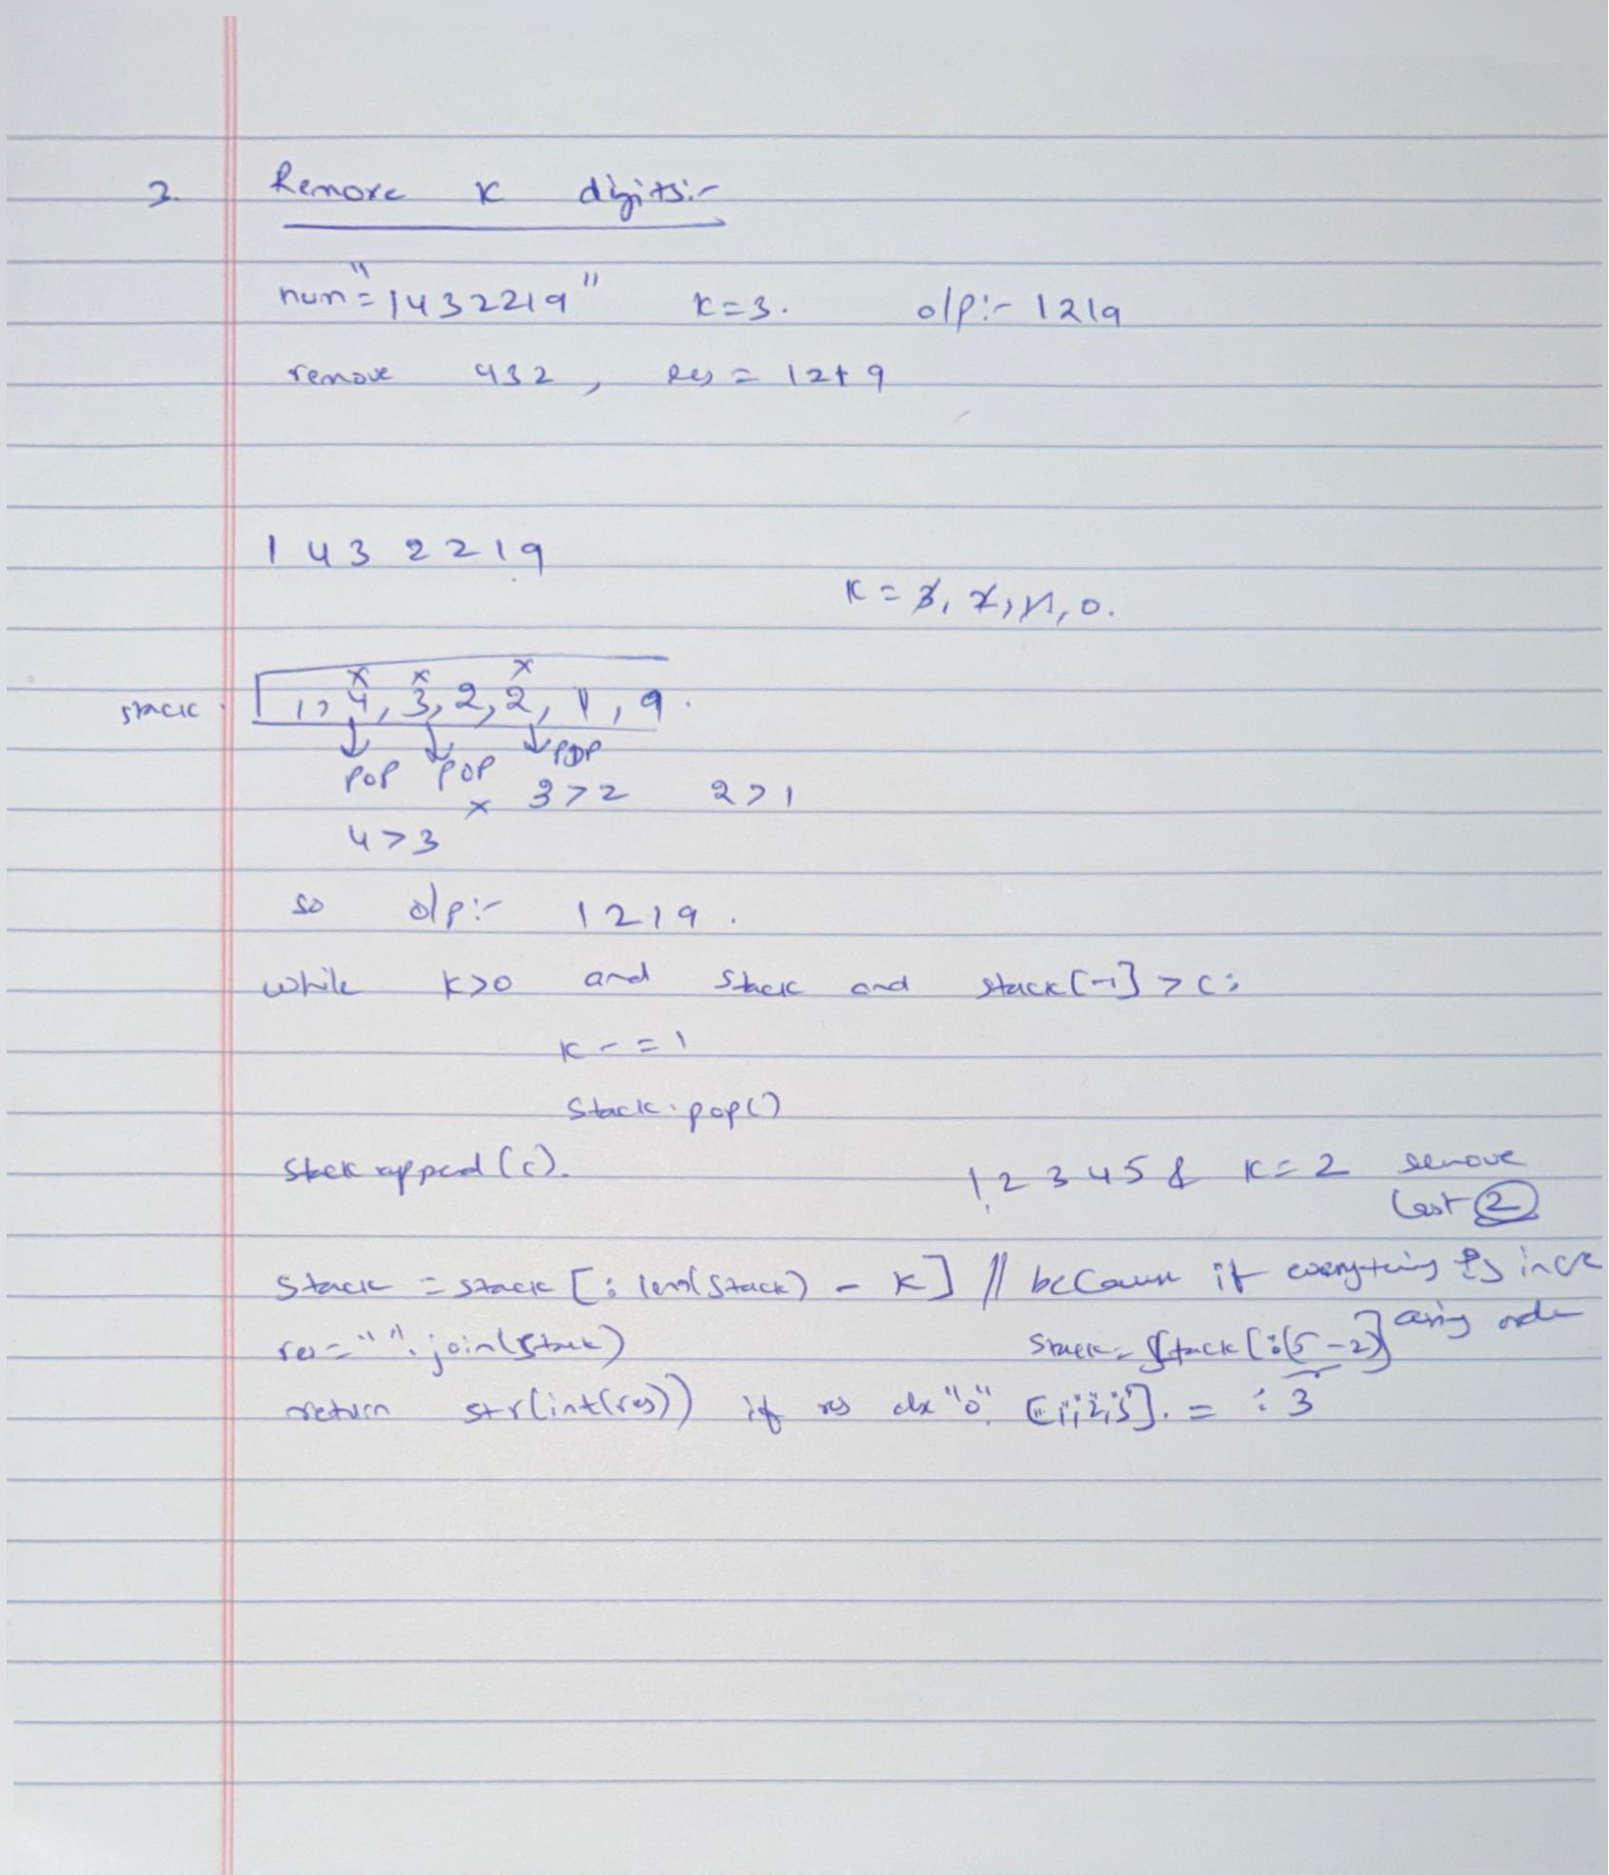
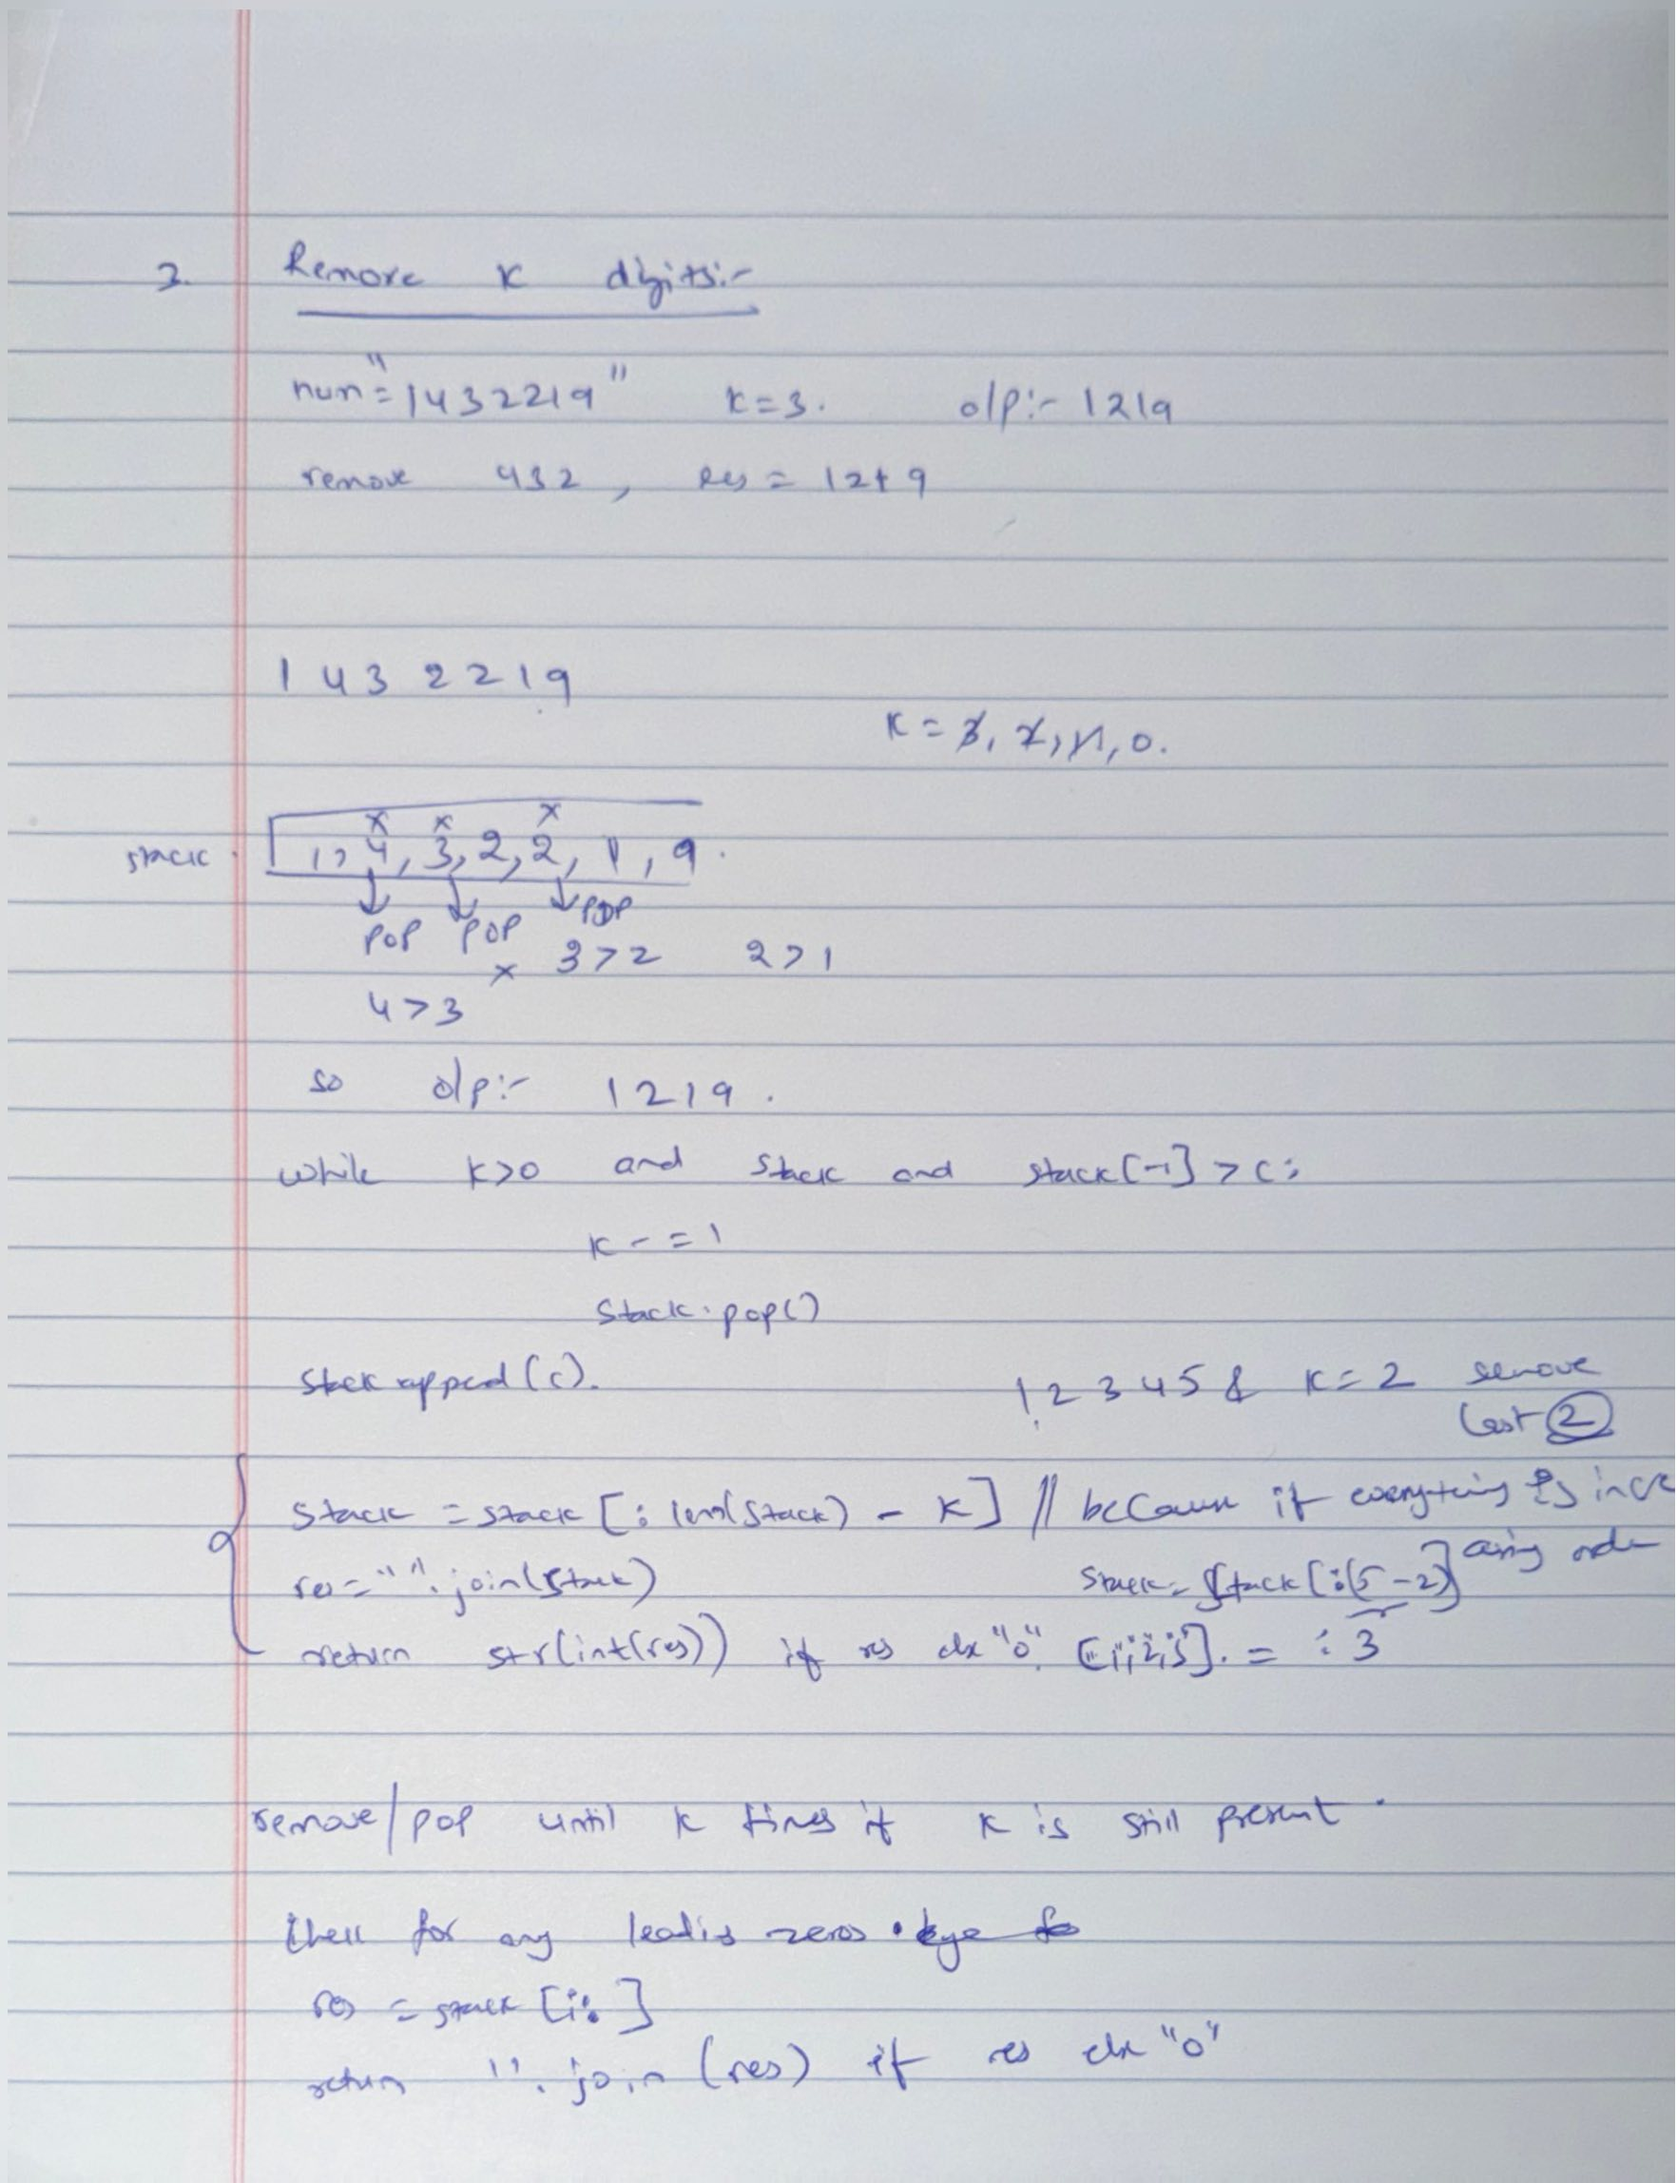
Day19 update

diff --git a/Week3/Day 19 – String Building + Greedy/Remove K Digits  .py b/Week3/Day 19 – String Building + Greedy/Remove K Digits  .py
@@ -7,9 +7,16 @@ class Solution:
                 stack.pop()
             stack.append(c)
 
-        stack = stack[:len(stack)-k]
-        res="".join(stack)
-        return str(int(res)) if res else "0"
+        while stack and k:
+            stack.pop()
+            k -= 1
+
+        i = 0
+        while i < len(stack) and stack[i] == '0':
+            i += 1
+
+        res = stack[i:]
+        return ''.join(res) if res else "0"
 sol=Solution()
 nums = "1432219"
 k = 3
